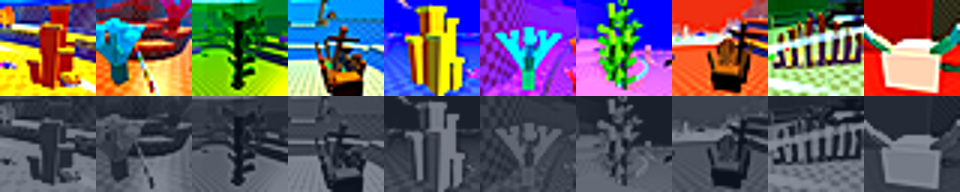
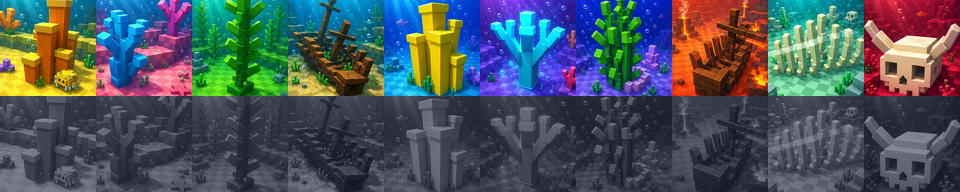
vault sync from void (Hugo's PC): 2026-11-17 23:38:16

diff --git a/tools/ui/land_icons/strip_sheet.py b/tools/ui/land_icons/strip_sheet.py
@@ -18,8 +18,8 @@ CARD = (34, 37, 46)
 WHITE = (236, 238, 242)
 GREY = (165, 170, 182)
 GOLD = (255, 220, 90)
-BIG = (520, 40, 1500, 290)  # the 3x strip in a preview shot
-SMALL = (820, 355, 1190, 445)  # the real-size one
+BIG = (500, 40, 1530, 320)  # the 3x strip in a preview shot
+SMALL = (800, 355, 1210, 450)  # the real-size one
 W = 2000
 F = icons.font
 
@@ -38,14 +38,15 @@ def main():
     d = ImageDraw.Draw(img)
     d.text((28, 20), "Ride a Fish: the land strip in style A (the new strip, in the game's own code)", font=F(40), fill=GOLD)
     d.text((28, 76), "Hugo: \"use first style, but remove the inner border, make the numbers more stylised to each map part ... a round icon of "
-           "the player right below ... a meter bar right under ... slowly reveal the fully color map icon over the locked grey icon ... a yellow "
-           "striped line connected to a meter number saying best\".", font=F(18), fill=GREY)
-    d.text((28, 102), "Every strip below is a Studio capture of LandStrip.luau's style 1 (off by default: Kit.LandStripStyle). The pictures are "
+           "the player right below ... a meter bar right under ...", font=F(18), fill=GREY)
+    d.text((28, 100), "... slowly reveal the fully color map icon over the locked grey icon ... a yellow striped line connected to a meter "
+           "number saying best\".", font=F(18), fill=GREY)
+    d.text((28, 124), "Every strip below is a Studio capture of LandStrip.luau's style 1 (off by default: Kit.LandStripStyle). The pictures are "
            "round one's picks until you choose from the selection sheets; they are not uploaded yet.", font=F(18), fill=GREY)
-    y = 150
+    y = 170
 
     # 1. the numbers
-    card(img, y, 1010)
+    top1 = y
     d.text((40, y + 16), "1. The numbers: pick N1, N2 or N3", font=F(32), fill=WHITE)
     d.text((40, y + 58), "Gotham Black, ink edge, still readable at real size. Left: in the Kelp Forest (lands 1-2 done, 3 half way, 4-10 locked, "
            "the number grey there). Right: every land reached, every number lit.", font=F(18), fill=GREY)
@@ -62,47 +63,51 @@ def main():
         d.text((120, yy + 12), notes[n], font=F(19), fill=WHITE)
         a = im(f"num_N{n}").crop(BIG)
         b = im(f"num_N{n}_all").crop(BIG)
-        a = a.resize((a.width * 88 // 100, a.height * 88 // 100), Image.LANCZOS)
+        a = a.resize((a.width * 9 // 10, a.height * 9 // 10), Image.LANCZOS)
         b = b.resize(a.size, Image.LANCZOS)
         img.paste(a, (40, yy + 46))
-        img.paste(b, (40 + a.width + 20, yy + 46))
+        img.paste(b, (40 + a.width + 30, yy + 46))
         s = im(f"num_N{n}").crop(SMALL)
-        img.paste(s, (W - s.width - 40, yy + 4))
-        d.text((W - s.width - 40, yy - 18), "real size", font=F(15), fill=GREY)
-        yy += 300
-    y += 1030
-
+        img.paste(s, (40, yy + 46 + a.height + 24))
+        d.text((40, yy + 46 + a.height + 2), "real size (1 GUI px = 1 px)", font=F(15), fill=GREY)
+        s = im(f"num_N{n}_all").crop(SMALL)
+        img.paste(s, (40 + a.width + 30, yy + 46 + a.height + 24))
+        yy += a.height + 180
+    y = yy + 20
     # 2. the reveal
-    card(img, y, 700)
+    card(img, y, 740)
     d.text((40, y + 16), "2. What colours the pictures in: Dive (the Boss's reading) or Best (the alternative)", font=F(32), fill=WHITE)
-    d.text((40, y + 58), "Your best here: 108 m, four tenths into the Open Blue (land 5). Dive: the colour follows this dive, so every dive starts "
-           "grey and fills in as you go; the best line shows how far you got before. Best: lands you have ever reached stay in colour.",
-           font=F(18), fill=GREY)
+    d.text((40, y + 58), "Your best here: 108 m, four tenths into the Open Blue (land 5). Dive: the colour follows this dive, so every dive "
+           "starts grey and fills in as you go;", font=F(18), fill=GREY)
+    d.text((40, y + 80), "the best line shows how far you got before. Best: lands you have ever reached stay in colour.", font=F(18), fill=GREY)
     yy = y + 100
     for mode in ("Dive", "Best"):
         d.text((40, yy), mode, font=F(36), fill=GOLD)
         for k, (state, label) in enumerate((("start", "a dive's first metre"), ("past", "past the best, a third into Twilight"))):
             c = im(f"rev_{mode}_{state}").crop(BIG)
-            c = c.resize((c.width * 9 // 10, c.height * 9 // 10), Image.LANCZOS)
-            x = 160 + k * (c.width + 20)
+            c = c.resize((c.width * 85 // 100, c.height * 85 // 100), Image.LANCZOS)
+            x = 150 + k * (c.width + 20)
             img.paste(c, (x, yy))
             d.text((x, yy + c.height + 2), label, font=F(16), fill=GREY)
         yy += 290
-    y += 720
+    y += 720 + 40
 
     # 3. in the game, desktop
-    games = sorted(SH.glob("game_[0-9].png"))
-    card(img, y, 1320)
+    games = [SH / f"game_{k}.png" for k in (2, 3, 4)]
+    card(img, y, 1420)
     d.text((40, y + 16), "3. In the game, desktop: a real ride down the lane (Studio, sandbox, endless air)", font=F(32), fill=WHITE)
     d.text((40, y + 58), "Your avatar slides along under the strip with the metres; the land you are in is a size up with a white rim; "
-           "its picture colours in as you go; BEST is the server's furthest (BestService), here pushed along by this ride.",
+           "its picture colours in as you go; BEST is the server's furthest (BestService), pushed along by this ride.",
            font=F(18), fill=GREY)
     yy = y + 96
-    for k, g in enumerate(games[:4]):
-        c = Image.open(g).convert("RGB")
-        c = c.resize((940, 505), Image.LANCZOS)
+    for k, g in enumerate(games):
+        c = Image.open(g).convert("RGB").resize((940, 505), Image.LANCZOS)
         img.paste(c, (40 + (k % 2) * 960, yy + (k // 2) * 520))
-    y += 1340
+    z = Image.open(games[1]).convert("RGB").crop((690, 0, 1300, 160))
+    z = z.resize((z.width * 3 // 2, z.height * 3 // 2), Image.LANCZOS)
+    img.paste(z, (1000 + (940 - z.width) // 2, yy + 520 + 40))
+    d.text((1000, yy + 528), "the strip in the frame on the right, 1.5x (Midnight, 1,000 m)", font=F(17), fill=GREY)
+    y += 1440
 
     # 4. phone width
     card(img, y, 1000)

diff --git a/tools/ui/land_icons/gen_sheet.py b/tools/ui/land_icons/gen_sheet.py
@@ -1,0 +1,102 @@
+"""The land pictures redrawn by OpenAI's gpt-image-2 (Hugo, 2026-11-17: "take selected icons and run through chatgpt
+image generation to make a visually pretty and cohesive version"; task l1). Four variations G1 to G4 of one run
+(ElevenLabs connector, image edit from the ten picks laid out 5 x 2: work/land_icons/gen/input_grid.png).
+    python tools/ui/land_icons/gen_sheet.py
+slices each generated sheet (docs/attachments/land-icons/gen/G<k>.jpg) into ten squares (docs/attachments/land-icons/
+gen/G<k>_land<NN>.png, 256 px) and writes docs/attachments/land-icons-gen-1.png: the picks today against G1 to G4,
+each as style-A tiles (one ink frame, no inner band) at 3x and as the strip at real size.
+"""
+from pathlib import Path
+
+from PIL import Image, ImageDraw
+
+import icons
+from selection import tile_A
+
+ROOT = icons.ROOT
+GEN = ROOT / "docs/attachments/land-icons/gen"
+OUT = ROOT / "docs/attachments/land-icons-gen-1.png"
+BG = (22, 24, 30)
+CARD = (34, 37, 46)
+WHITE = (236, 238, 242)
+GREY = (165, 170, 182)
+GOLD = (255, 220, 90)
+
+
+def runs(v, minlen=40):
+    out, start = [], None
+    for i, x in enumerate(v + [False]):
+        if x and start is None:
+            start = i
+        if not x and start is not None:
+            if i - start > minlen:
+                out.append((start, i))
+            start = None
+    return out
+
+
+def slice_sheet(k):
+    im = Image.open(GEN / f"G{k}.jpg").convert("RGB")
+    W, H = im.size
+    px = im.convert("L").point(lambda p: 255 if p < 232 else 0).load()
+    rowf = [sum(1 for x in range(0, W, 2) if px[x, y]) / (W / 2) for y in range(H)]
+    colf = [sum(1 for y in range(0, H, 2) if px[x, y]) / (H / 2) for x in range(W)]
+    rows, cols = runs([r > 0.3 for r in rowf]), runs([c > 0.15 for c in colf])
+    assert len(rows) == 2 and len(cols) == 5, (k, rows, cols)
+    n = 0
+    for r0, r1 in rows:
+        for c0, c1 in cols:
+            n += 1
+            s = min(c1 - c0, r1 - r0) - 6
+            cx, cy = (c0 + c1) // 2, (r0 + r1) // 2
+            sq = im.crop((cx - s // 2, cy - s // 2, cx + s // 2, cy + s // 2)).resize((256, 256), Image.LANCZOS)
+            sq.save(GEN / f"G{k}_land{n:02d}.png")
+
+
+def strip(pics, px):
+    gap = round(px * 2 / 28)
+    out = Image.new("RGBA", (10 * px + 9 * gap, px), (0, 0, 0, 0))
+    for i, p in enumerate(pics):
+        t = tile_A(p, px)
+        out.alpha_composite(t, (i * (px + gap), 0))
+    return out
+
+
+def main():
+    for k in range(1, 5):
+        slice_sheet(k)
+    sets = [("Now", "the captures", [icons.picture(l, 120, 120) for l in range(1, 11)])]
+    for k in range(1, 5):
+        sets.append((f"G{k}", "gpt-image-2",
+                     [Image.open(GEN / f"G{k}_land{l:02d}.png").convert("RGB") for l in range(1, 11)]))
+    W = 2000
+    row_h = 330
+    img = Image.new("RGB", (W, 150 + row_h * len(sets) + 20), BG)
+    d = ImageDraw.Draw(img)
+    d.text((28, 20), "Ride a Fish: the land pictures redrawn as one set (gpt-image-2). Pick G1 to G4, or Now", font=icons.font(38), fill=GOLD)
+    d.text((28, 72), "Hugo: \"take selected icons and run through chatgpt image generation to make a visually pretty and cohesive version\". "
+           "Input: the ten picks of the framings sheet (1d 2d 3d 4d 5e 6d 7e 8d 9e 10d).", font=icons.font(18), fill=GREY)
+    d.text((28, 96), "Each row: the ten in the strip's style A as built (one ink frame, NO inner band) at 3x, and the strip at real size (28 px "
+           "tiles). One run, four variations; nothing uploaded.", font=icons.font(18), fill=GREY)
+    y = 140
+    for name, note, pics in sets:
+        d.rounded_rectangle((16, y, W - 16, y + row_h - 14), 14, fill=CARD)
+        d.text((36, y + 14), name, font=icons.font(44), fill=GOLD)
+        d.text((36, y + 70), note, font=icons.font(16), fill=GREY)
+        big = strip(pics, 84)
+        img.paste(big, (200, y + 20), big)
+        small = strip(pics, 28)
+        img.paste(small, (200, y + 20 + 84 + 30), small)
+        d.text((200, y + 20 + 84 + 8), "real size", font=icons.font(15), fill=GREY)
+        x = 200 + small.width + 40
+        for i in (0, 4, 9):
+            p = pics[i].resize((150, 150), Image.LANCZOS)
+            img.paste(p, (x, y + 134))
+            x += 160
+        y += row_h
+    img.save(OUT)
+    print("wrote", OUT)
+
+
+if __name__ == "__main__":
+    main()

diff --git a/tools/ui/land_icons/atlas.py b/tools/ui/land_icons/atlas.py
@@ -1,6 +1,6 @@
 """The land strip's pictures as one atlas (task l1): ten cells of 96 px across, the colour pictures on the top row and
 the grey locked look under them (the game's LandStrip style 1 reads cells from it: Kit.LandAtlas, LAND_CELL).
-    python tools/ui/land_icons/atlas.py [--studio] [--picks picks.json]
+    python tools/ui/land_icons/atlas.py [--studio] [--picks picks.json] [--gen 1-4]
 writes docs/attachments/land-icons/land_atlas.png (the file to upload once Hugo has picked the pictures) and, with --studio, a copy in
 Studio's own content folder (rbxasset://textures/ridefish/land_atlas.png), for tests in Studio without an upload.
 """
@@ -19,11 +19,15 @@ OUT = ROOT / "docs/attachments/land-icons/land_atlas.png"
 STUDIO = Path.home() / ".var/app/org.vinegarhq.Vinegar/data/vinegar/versions/version-63eb6055af4e4688/content/textures/ridefish"
 
 
-def build(picks=None):
+def build(picks=None, gen=None):
     atlas = Image.new("RGB", (CELL * 10, CELL * 2))
     for land in range(1, 11):
         pick = (picks or {}).get(str(land))
-        pic = icons.picture(land, CELL, CELL, pick)
+        if gen:  # a generated set (gen_sheet.py): docs/attachments/land-icons/gen/G<k>_land<NN>.png
+            src = ROOT / f"docs/attachments/land-icons/gen/G{gen}_land{land:02d}.png"
+            pic = Image.open(src).convert("RGB").resize((CELL, CELL), Image.LANCZOS)
+        else:
+            pic = icons.picture(land, CELL, CELL, pick)
         atlas.paste(pic, ((land - 1) * CELL, 0))
         atlas.paste(icons.state_picture(pic, "locked"), ((land - 1) * CELL, CELL))
     return atlas
@@ -34,7 +38,8 @@ if __name__ == "__main__":
     if "--picks" in sys.argv:
         picks = json.loads(Path(sys.argv[sys.argv.index("--picks") + 1]).read_text())
     OUT.parent.mkdir(parents=True, exist_ok=True)
-    build(picks).save(OUT)
+    gen = sys.argv[sys.argv.index("--gen") + 1] if "--gen" in sys.argv else None
+    build(picks, gen).save(OUT)
     print("wrote", OUT)
     if "--studio" in sys.argv:
         STUDIO.mkdir(parents=True, exist_ok=True)

diff --git a/tools/ui/land_icons/sheet.py b/tools/ui/land_icons/sheet.py
@@ -216,12 +216,14 @@ def framings_sheet():
     d = ImageDraw.Draw(out)
     text(d, (16, 14), "Land icons: the pictures per land (answer e.g. \"3c\")", icons.font(30), GOLD)
     text(d, (16, 56), "a, b: two of the land's big assets; c: down the lane; d, e: a and b close up; f: a third asset close up; "
-         "g: closer still. Gold frame: the crop the options use. Captured in Play, 2026-11-17.", F_NOTE, GREY)
+         "g: closer still. Gold frame: the crop the strip uses. The tile on the left: style A as built, no inner band (2026-11-17).", F_NOTE, GREY)
     y = 100
     for land in range(1, 11):
         text(d, (16, y + 4), f"{land}", icons.font(36), icons.LANDS[land - 1])
         text(d, (60, y + 14), icons.NAMES[land - 1], F_NOTE, WHITE)
-        tile = icons.icon("A", land, "done", 3)
+        # style A as built (task l1): one ink frame, the picture straight inside it, no coloured band
+        from selection import tile_A
+        tile = tile_A(icons.picture(land, 120, 120), 84)
         out.paste(tile, (16, y + 46), tile)
         x = lw
         for th in rows[land]:

diff --git a/docs/design/ui.md b/docs/design/ui.md
@@ -16,6 +16,78 @@ What the user decides goes in [Decisions](../Decisions.md).
 
 Most players are on phones, so every picture is drawn for a phone held sideways first (844 by 390), then for a desktop.
 
+## The land strip, style A (2026-11-17, Hugo; task l1): built, off until Hugo picks
+Hugo, on the options sheet of the land pictures ([land-icons-options-1](../attachments/land-icons-options-1.png)):
+"for the map ui, use first style, but remove the inner border, make the numbers more stylised to each map part as
+well, can you give me a selection of screenshots from each area to choose, Keep the locked but add a round icon of the
+player right below the map ui, moving along the screen with a meter bar right under, this should slowly reveal the
+fully color map icon over the locked grey icon in a progressive linear manner, following how far the player has
+gotten, add a record system where theres a yellow striped line(- - -) connected to a meter number saying "best", this
+should all be somewhat simplistic but still stylised to match the rest of the game and not look like modernised
+minimalistic."
+
+**How it was read** (the Boss's reading; Hugo has not confirmed the details):
+- "First style" is treatment A: a 28 px rounded square. Its inner band (the ring of the land's colour, white on the
+  land you are in) is gone: one ink frame (2.5 px) with the picture straight inside. The land you are in is a size up
+  (1.18) with a white rim outside the frame instead.
+- The locked look stays: a land not reached is its grey picture with a padlock. A land you have been all through
+  gets a small green tick.
+- The reveal: the colour picture is uncovered over the grey one from left to right, linearly, by how far you are
+  through that land (half way through land 3: land 3 half colour, 1 and 2 whole, 4 to 10 grey). A thin white line
+  marks where colour meets grey.
+- **What drives the reveal: this dive** (Kit.LandReveal "Dive"), as the Boss read it: your marker and the reveal
+  are where you are now; the best line is how far you have ever got. It makes every dive start grey and fill in.
+  **The alternative, "Best",** keeps every land you have ever reached in colour; it is one switch, and both are on
+  the sheet for Hugo.
+- Under the strip: your avatar's face (Roblox's headshot of you, no upload) in a round white-rimmed frame with a
+  notch pointing up, sliding left to right with you; under it the metres on a small dark bar in the land's colour
+  ("1,240 m"; on a phone it also names the land, as today's pill).
+- The best: a yellow dashed line (dashes of 3.5, gaps of 2.5, ink edged) through the strip at your furthest ever,
+  with "BEST 1,240 m" on a dark tag edged in yellow hanging from its foot, on the side away from you; when you are at
+  the line (on your way to a new best) the tag hangs centred under your metres instead, so the two never cover each
+  other. The furthest is the server's (below).
+- The numbers in the land's own style, Gotham Black as on the fish tags, ink edged, bottom left of each tile. Three
+  versions for Hugo:
+  | | Look |
+  |---|---|
+  | **N1 Metal** | The land's colour as a gradient: pale at the top, the colour, a little darker at the foot |
+  | **N2 Material** (the default) | Each land's own stuff: sun on sand, banded coral, kelp ribs, a plank seam, water, dusk, dark letters with a glowing lure edge (Midnight), lava with a glow (Vents), bone, embers (Underworld) |
+  | **N3 Badge** | A white number on a small sign of its land made of frames: sun, coral head, kelp leaf, porthole, bubble, star, lure, flame, bone, horns |
+  A land not reached has its number in grey (and its badge grey), lit once you get there.
+
+**The pictures** are round one's picks (picks.json) until Hugo chooses again from round two:
+[selection 1](../attachments/land-icons-selection-1.jpg) (lands 1 to 5) and
+[selection 2](../attachments/land-icons-selection-2.jpg) (6 to 10), six new captures a land (h to m: the first asset
+from the other side, the second low, a third, from above, from the floor, across the lane), each with its tile in the
+new look at 3x and real size, round one's under them. Answer like "3k, 7h". Hugo also asked (2026-11-17, 23:18) for
+the chosen pictures redrawn as one cohesive set by ChatGPT's image model: see the Handoff entry.
+
+**How the game gets the pictures:** one atlas image, ten cells of 96 px, colour on the top row and the grey locked
+look under it (`tools/ui/land_icons/atlas.py` writes `docs/attachments/land-icons/land_atlas.png`). It is one upload,
+**not done**: until it is, `Kit.LandAtlas` is empty and the tiles are plain land colour (grey-blue when locked), which
+still works. In Studio, `atlas.py --studio` puts a copy in Studio's own content folder and the workspace's `LandAtlas`
+attribute `rbxasset://textures/ridefish/land_atlas.png` shows it without an upload (that path works in Studio only).
+
+**The furthest distance is the server's:** `src/server/Services/BestService.luau`. Every quarter second, for a player
+in the water (State Free, Riding or Jumping), it finds their land and how far along it (Zones.locate, as the HUD) and
+raises their best. It sets the player attributes `BestMetres` (whole metres) and `BestLands` (2.6 = six tenths
+through land 3); the strip reads them. A jump of more than one land in one check is not counted. It lasts the
+session: there are no saves yet, and when saves come these two are what to keep. Measured in Studio on a real ride
+(sandbox, endless air): 8, 15, 26 m in the first 45 s, then 173, 1,000, 1,414 m (land 6.4) as the fish went down.
+
+**The switches** (Kit.luau; each also a workspace attribute in Studio): `LandStripStyle` 0 (today's strip, the
+default) or 1 (this); `LandNumbers` 1, 2 or 3 (2); `LandReveal` "Dive" or "Best" ("Dive"); `LandAtlas` "" (the
+upload's id).
+
+**What it looks like:** [the sheet](../attachments/land-strip-A-options-1.png) (the numbers N1 to N3 at 3x and real
+size, Dive against Best, three frames of a real ride on a desktop, the phone width for each number style) and
+[a whole dive](../attachments/land-strip-A-1.gif) (0 to 10,935 m, N2). All of it is a capture of the game's own code
+in a Studio playtest, not a mock-up. The phone frames are the strip at its real phone size (HUD scale 1, 298 of 844
+GUI px) over the game; Studio's window was not resized to a phone.
+
+**Not done / open:** Hugo's picks (N1 to N3, Dive or Best, the pictures), the atlas upload, turning it on
+(`Kit.LandStripStyle = 1`), saving the best. The strip shows on the dock as today's does (all grey there in Dive).
+
 ## The UI's look, 2026-11-16: the survey, two fixes, options and the dock's panels
 The user: "I just want to do the UI" ([Decisions](../Decisions.md)). Three steps, asked for by the game-code chat's
 brief in [Sessions](../Sessions.md). All of it was looked at in Studio on this PC under the new light, not on a phone.
